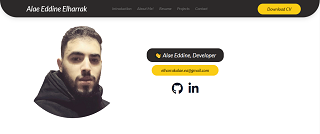
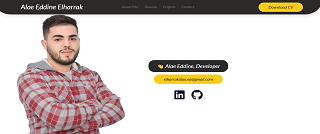
update repository portfolio-v

diff --git a/src/JSON/Data.jsx b/src/JSON/Data.jsx
@@ -19,7 +19,6 @@ import blog from "../assets/blog.png"
 import play from "../assets/play.png"
 import portfolio from "../assets/portfolio.png"
 
-
 import { SiPhp } from "react-icons/si";
 import { TiHtml5 } from "react-icons/ti";
 import { FaCss3Alt } from "react-icons/fa";
@@ -39,7 +38,7 @@ const ProData = [
     {key : '03', logo1 : <SiVisualbasic/> ,logo2 : <SiMicrosoftaccess/>, logo3 : <SiCrystal/>, logo4 : '', logo5 : '', logo6 : '',lang1 : 'visual basic.NET',lang2 : 'Microsoft Access', lang3 : 'crystal report', lang4 : '', lang5 : '', lang6 : '', img : cabinet ,title : 'Medical office Management System', paragra : 'Software that manages the information systems of a medical office.'},
     {key : '04', logo1 : <FaLaravel/>,logo2 : <SiPhp/>, logo3 : <SiTailwindcss/>, logo4 : '', logo5 : '', logo6 : <SiMysql/>,lang1 : 'Laravel',lang2 : 'php', lang3 : 'tailwindcss', lang4 : '', lang5 : '', lang6 : 'mysql', img : blog ,title : 'Blogs Hub', paragra : 'A user-friendly platform for writing blog posts and sharing content effortlessly.'},
     {key : '05', logo1 : <FaReact/>,logo2 : <FaCss3Alt/>, logo3 : <SiTailwindcss/>, logo4 : <SiJson/>, logo5 : '', logo6 : '',lang1 : 'reactJs',lang2 : 'css', lang3 : 'talwindcss', lang4 : 'json', lang5 : '', lang6 : '', img : play ,title : 'LetsPlay', paragra : 'A video game discovery platform'},
-    {key : '06', logo1 : <FaReact/>,logo2 : <FaCss3Alt/>, logo3 : <SiTailwindcss/>, logo4 : <SiJson/>, logo5 : '', logo6 : '',lang1 : 'reactJs',lang2 : 'css', lang3 : 'talwindcss', lang4 : 'json', lang5 : '', lang6 : '', img : portfolio ,title : 'Portfolio'},
+    {key : '06', logo1 : <FaReact/>,logo2 : <FaCss3Alt/>, logo3 : <SiTailwindcss/>, logo4 : <SiJson/>, logo5 : '', logo6 : '',lang1 : 'reactJs',lang2 : 'css', lang3 : 'talwindcss', lang4 : 'json', lang5 : '', lang6 : '', img : portfolio,title : 'Portfolio'},
 ]
 
 

diff --git a/src/section/Hero/Hero.jsx b/src/section/Hero/Hero.jsx
@@ -1,5 +1,5 @@
 import './Hero.css';
-import photo from '../../assets/profile.png';
+import photo from '../../assets/profile2.png';
 import { ButtonYellow, ButtonDark, Container } from '../../component/index';
 import { FaLinkedin, FaGithub } from "react-icons/fa";
 
